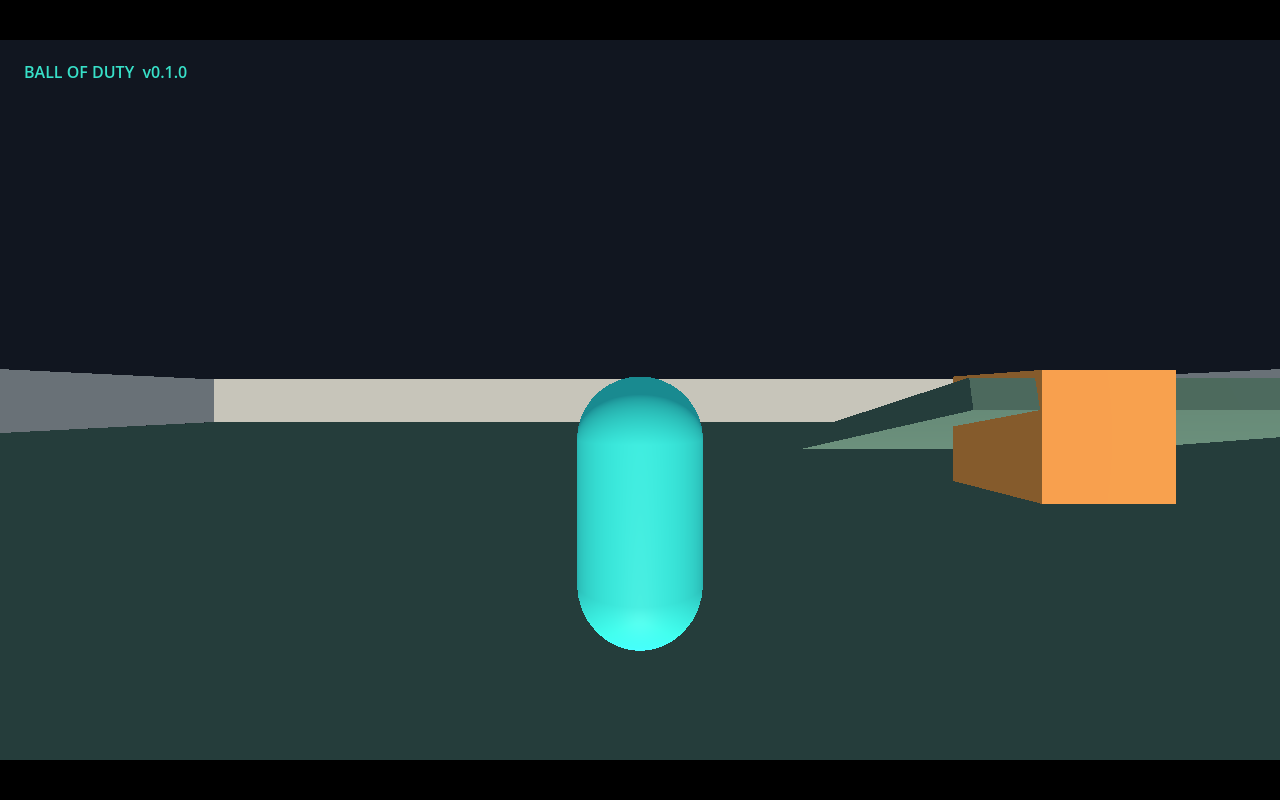
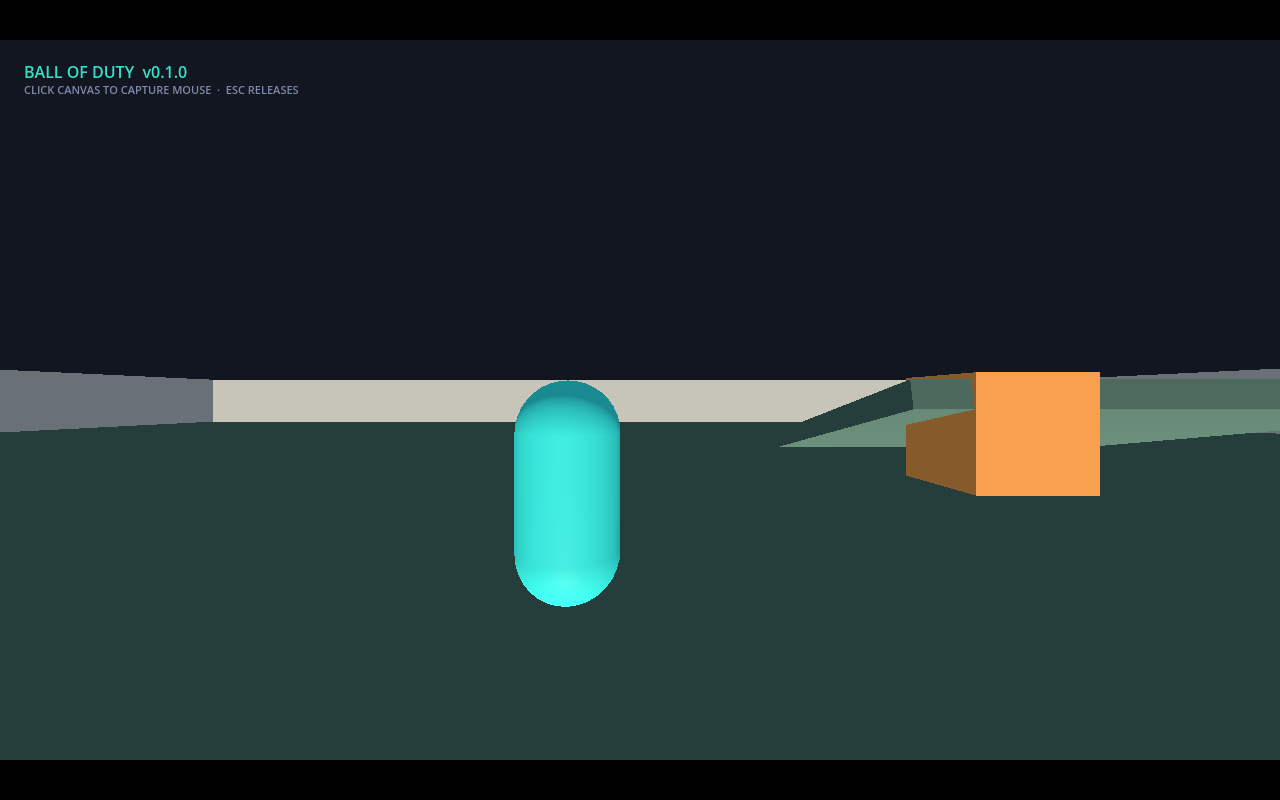
CP0: fix ramp collision, hurtbox extents, spring arm offset, pointer-lock gesture, netcode budgets

Changed region(s): [[0.375, 0.4688, 0.5625, 0.8125], [0.625, 0.4375, 1.0, 0.6562], [0.0312, 0.0938, 0.2188, 0.125]]

diff --git a/docs/ROADMAP.md b/docs/ROADMAP.md
@@ -15,9 +15,9 @@ in `docs/checkpoints/CPn.md` (numbers, screenshots, logs — not "looks good").
 | Server | Godot 4.7.2 headless, authoritative | Same scene/physics as client; no reimplementation of Godot's wire protocol |
 | Transport | `WebSocketMultiplayerPeer` (WSS in prod) | Only option for browser clients; works for desktop too |
 | Simulation | 30 Hz fixed tick, client prediction + reconciliation | Matches snapshot rate; predictable CPU and bandwidth |
-| Snapshot rate | 30 Hz, full state, ≤ 1 KB | 8 players; no delta compression needed for V1 |
+| Snapshot rate | 30 Hz, binary `PackedByteArray`, ≤ 300 B | 8 players; ~7 KB/s downstream; no delta compression for V1 |
 | Combat | Server-spawned projectiles, client cosmetic tracer | No lag-compensation/rewind needed for V1 |
-| Interpolation | 100 ms buffer (2 snapshots), drop stale | Hides 1–2 packet gaps without adding much latency |
+| Interpolation | 2 intervals (67 ms) + jitter margin, newest-wins | ~100 ms render delay; late packets hold last pose, no snap-back |
 | Match | Auto-join room, max 8, 5-min FFA, 3 s respawn | Smallest complete game loop |
 | Web export | Single-threaded, Compatibility, no SAB | Works on any static host without COOP/COEP |
 | Game scope | 1 arena, 1 rifle, no accounts/progression | Prove the loop before content |
@@ -45,14 +45,14 @@ chat/voice, mobile/touch, recoil patterns beyond cosmetic, anti-cheat beyond ser
 10. CI workflow building both artifacts and uploading them.
 
 ### Acceptance criteria
-- [ ] `godot --headless --path . --quit` completes with **0 errors, 0 warnings** in output.
+- [ ] `godot --headless --path . --quit` completes with **0 errors**; any warnings are triaged in the evidence file.
 - [ ] Project opens in the editor with Compatibility renderer; no Forward+/Mobile references.
-- [ ] `godot --headless --path . -- --server --port 9080` boots, logs `server listening`, exits 0 on SIGTERM.
+- [ ] `--headless --quit-after 120 --max-fps 60 -- --server --port 9080` boots, logs the listen banner **and a physics-tick probe** (no SIGTERM requirement; Godot does not trap it).
 - [ ] Web build loads in Chrome and Firefox from `http://localhost` with **no console errors**, pointer lock works, grey-box scene renders.
 - [ ] Web initial payload **≤ 20 MB gzipped**; load to interactive **≤ 10 s** on localhost.
 - [ ] Linux server build starts without X11/display and prints the listen banner; WebSocket handshake is verified in CP4a.
-- [ ] `tools/check.sh` passes on a clean checkout; CI is green and uploads `web.zip` + `server.zip`.
-- [ ] Version string (`git describe`) visible on the boot/loading screen.
+- [ ] `tools/check.sh` passes on a clean checkout; the CI workflow is committed (first green remote run deferred until a remote exists — tracked as a CP0 follow-up).
+- [ ] `config/version` is visible on the in-game boot overlay (build SHA recorded in the evidence file).
 - [ ] Collision layer table documented in `docs/ARCHITECTURE.md` and used consistently.
 
 ---
@@ -72,16 +72,17 @@ chat/voice, mobile/touch, recoil patterns beyond cosmetic, anti-cheat beyond ser
 6. Input capture: click to capture, `Esc` release, re-capture on click, focus-loss handling.
 7. Debug overlay: FPS, physics tick, velocity, input seq, camera distance; `F3` toggle.
 8. Small test course: flat ground, ramp, wall, gap.
+9. Minimal `Settings` autoload: sensitivity + invert-Y persisted to `user://settings.cfg` (full settings UI lands in CP5).
 
 ### Acceptance criteria
-- [ ] Travel distance over 3 s at 30/60/144 FPS differs by **< 2%** (measured, logged).
+- [ ] Travel distance over 3 s at 30/60/144 FPS differs by **< 2%** (measured, logged); rendering is smooth via physics interpolation (no 30 Hz camera judder).
 - [ ] Mouse-look has no 30 Hz stepping; a 360° turn shows no visible stair-stepping at 144 FPS.
 - [ ] Diagonal movement is **not** faster than cardinal (≤ 0.1% difference).
 - [ ] Camera does not clip through the test wall; spring arm recovers smoothly in < 200 ms.
 - [ ] Scope reach 55° FOV in < 100 ms; releasing returns to 75° in < 100 ms.
 - [ ] Player cannot fall through the floor at 30 FPS or while walking down the ramp.
 - [ ] No `Input.is_key_pressed`-style hardcoded keys remain; all actions come from the InputMap.
-- [ ] Sensitivity and invert-Y persist across restarts.
+- [ ] Sensitivity and invert-Y persist across restarts (minimal `Settings` autoload).
 - [ ] **Your sign-off:** camera distance, shoulder offset, FOV, speed, and scope feel right.
 
 ---
@@ -147,20 +148,21 @@ chat/voice, mobile/touch, recoil patterns beyond cosmetic, anti-cheat beyond ser
 1. `NetworkManager` autoload: client connect/disconnect; server listen; CLI `--server --port`.
 2. Headless server scene: no camera/HUD/local player; deterministic world load.
 3. Join/leave handshake: assign id + sanitized name, broadcast roster, clean despawn.
-4. Snapshot encode/decode: `{tick, seq, players:[{id, pos, yaw, state, hp}]}` at 30 Hz.
-5. `NetworkInterpolator` on remote players: 100 ms buffer, drop stale snapshots, extrapolation cap 100 ms.
-6. Motion-state replication (idle/run/air) and yaw; animation driven locally from state.
-7. Dev instrumentation: snapshot queue depth, bytes/s, RTT.
+4. Minimal input path: `{seq, move, jump, sprint, aim_yaw, aim_pitch, scope}` at 30 Hz; server simulates movement and acks each player's last processed seq (full reconciliation in 4b).
+5. Snapshot encode/decode: `{tick, seq, players:[{id, pos, yaw, state, hp, acked_input_seq}]}` at 30 Hz, binary and quantized.
+6. `NetworkInterpolator` on remote players: 67 ms buffer + jitter margin, newest-wins (drop stale), extrapolation ≤ 1 tick or hold last pose.
+7. Motion-state replication (idle/run/air) and yaw; animation driven locally from state.
+8. Dev instrumentation: snapshots processed/dropped, snapshot bytes, RTT, server tick offset.
 
 ### Acceptance criteria
 - [ ] 2 browser clients + 1 desktop client join simultaneously; all see each other move.
 - [ ] Remote movement is smooth at 60 and 144 FPS; **no visible teleporting** while walking/running.
-- [ ] Snapshot size ≤ 1 KB with 8 players; downstream ≤ 10 KB/s per client.
+- [ ] Snapshot size ≤ 300 B with 8 players; downstream ≤ 10 KB/s per client (quantized, binary).
 - [ ] Server process runs with no display; CPU < 25% of one core with 8 connected clients idle.
-- [ ] Client drops stale snapshots rather than queueing (queue depth never > 3; logged).
+- [ ] Client processes at most one snapshot per tick after draining and keeps the newest; processed/dropped counters are logged.
 - [ ] Join mid-match spawns a player; leaving removes the node and the scoreboard row within 1 s.
 - [ ] Malformed/oversized packets are rejected without crashing or stalling the server.
-- [ ] At simulated 100 ms RTT + 20 ms jitter, remote interpolation stays smooth (local input lag is expected at this stage).
+- [ ] At simulated 100 ms RTT + 20 ms jitter, remote interpolation stays smooth with ≤ 1 tick extrapolation; late packets never cause snap-back (local input lag is expected at this stage).
 
 ---
 
@@ -171,18 +173,19 @@ chat/voice, mobile/touch, recoil patterns beyond cosmetic, anti-cheat beyond ser
 ### Tasks
 1. Input frames `{seq, move, jump, aim_yaw, aim_pitch, scope}` sent at 30 Hz; sequence ring buffer.
 2. Server simulation of the **same** `LocomotionComponent` from inputs; acks last processed seq.
-3. Client rewind-and-replay of unacked inputs on each snapshot; smooth visual correction over 100 ms.
-4. Fixed-tick local simulation with render interpolation; no variable-dt movement.
-5. Server validation: speed clamp, teleport clamp, input rate limit, sequence dedupe.
-6. Correction meters: position error, correction count/s, replay depth; RTT graph.
+3. Session token + 30 s reconnect grace (defined here, consumed in 4d).
+4. Client rewind-and-replay of unacked inputs on each snapshot; smooth visual correction over 100 ms.
+5. Fixed-tick local simulation with render interpolation; no variable-dt movement.
+6. Server validation: input rate limit, sequence dedupe, and a server-side displacement assertion (`|Δpos| ≤ max_speed·dt + ε`) — no position packets exist to trust or reject.
+7. Correction meters: position error, correction count/s, replay depth; RTT graph.
 
 ### Acceptance criteria
-- [ ] At 0 ms RTT, predicted position matches server within **0.01 m** steady-state.
-- [ ] At 100 ms RTT + 20 ms jitter, steady-state correction magnitude **< 0.05 m**; corrections are invisible (no rubber-banding).
+- [ ] Metric defined: server position at the acked tick vs the client's stored state for that same tick. At loopback, p95 error **< 0.02 m** steady-state.
+- [ ] At 100 ms RTT + 20 ms jitter, p95 error **< 0.05 m** and corrections are invisible (no rubber-banding). A small residual is acceptable; browser-wasm vs native contact ordering is not bit-identical.
 - [ ] Wall sliding and stair/ramp behavior identical on client and server (side-by-side replay test).
 - [ ] Input replay depth stays ≤ 8 frames at 150 ms RTT.
-- [ ] 2× speed hack / teleport packets rejected within 1 s and logged; legit movement never falsely rejected.
-- [ ] Disconnect during movement leaves no ghost; reconnect starts clean.
+- [ ] Server rejects impossible displacement (2× speed) within 1 s and logs it; legitimate movement is never falsely rejected.
+- [ ] Disconnect during movement leaves no ghost; reconnect within the 30 s grace restores identity and score.
 - [ ] **Your sign-off:** movement feels responsive at 100–150 ms simulated latency.
 
 ---
@@ -192,7 +195,7 @@ chat/voice, mobile/touch, recoil patterns beyond cosmetic, anti-cheat beyond ser
 **Owner:** me (build), **you** (gameplay test). **Gate:** CP4b acceptance.
 
 ### Tasks
-1. Fire intent `{seq, aim_origin, aim_dir}` → server validates fire rate/ammo/ownership → spawns authoritative projectile.
+1. Fire intent `{seq, client_tick, aim_yaw, aim_pitch, buttons}` → server derives origin/direction from its own player state, validates fire rate/ammo/ownership, spawns authoritative projectile.
 2. Client cosmetic tracer prediction; hitmarker/kill confirmed by server events.
 3. Server hurtbox resolution + damage + death + kill attribution (`source_id` on projectile).
 4. Server-authoritative respawn selection (farthest spawn with LOS check), 1.5 s spawn protection.
@@ -204,7 +207,7 @@ chat/voice, mobile/touch, recoil patterns beyond cosmetic, anti-cheat beyond ser
 - [ ] Fire rate > weapon spec is rejected; ammo cannot go negative; firing without ammo is rejected.
 - [ ] Headshots confirmed server-side at 2×; kill attributed to the correct shooter.
 - [ ] 8-player match with 4 bots runs 10 min: no desync, no ghost players, server CPU < 50% of one core.
-- [ ] At 100 ms RTT, shots visibly match server-confirmed hits; tracers are cosmetic only.
+- [ ] At 100 ms RTT, the tracer is cosmetic and the server-confirmed hit point is authoritative; hitmarkers/kills appear only on server events. No rewind/lag compensation in V1.
 - [ ] Spawn protection blocks damage for 1.5 s and cancels on firing; spawn is ≥ 10 m from nearest enemy.
 - [ ] **Your sign-off:** firefights feel fair; deaths and hitmarkers are understandable.
 
@@ -227,7 +230,7 @@ chat/voice, mobile/touch, recoil patterns beyond cosmetic, anti-cheat beyond ser
 - [ ] 8 clients × 10 min soak: RSS stable (±10%), 0 unhandled errors, 0 disconnects.
 - [ ] 9th client receives a clean "server full" message.
 - [ ] Oversized/rapid packets are dropped; server stays responsive (< 5 ms tick time).
-- [ ] `SIGTERM` shuts down gracefully with all peers notified.
+- [ ] A supervisor/shutdown command stops the server and notifies peers within 10 s; SIGTERM behavior is documented (Godot exits 143 without a handler).
 
 ---
 
@@ -251,7 +254,7 @@ chat/voice, mobile/touch, recoil patterns beyond cosmetic, anti-cheat beyond ser
 - [ ] Chrome, Firefox, **Safari** (latest) all load over HTTPS/WSS with no console errors.
 - [ ] Web payload ≤ 25 MB (gzipped), interactive ≤ 10 s on broadband, 60 FPS at 720p on reference low-end.
 - [ ] Settings persist; audio starts after first click; pointer lock recovers after tab switch.
-- [ ] 8 humans/bots play 15 min: 0 critical bugs, 0 disconnects, max tick time < 10 ms.
+- [ ] 8 humans/bots play 15 min: 0 critical bugs (crash, desync, unplayable frame rate, stuck spawn), 0 unplanned disconnects, max tick time < 10 ms.
 - [ ] One-command deploy reproduces the release; `docs/RELEASE.md` runbook works from scratch.
 - [ ] **Your sign-off:** web build is fun and stable enough to share publicly.
 
@@ -272,7 +275,7 @@ chat/voice, mobile/touch, recoil patterns beyond cosmetic, anti-cheat beyond ser
 
 ---
 
-## Performance budgets (reference: 1280×720, Intel UHD-class)
+## Performance budgets (reference device: 4-core/8 GB laptop, Intel UHD 620-class iGPU, 1280×720)
 
 | Metric | Budget | Hard fail |
 |---|---|---|
@@ -282,6 +285,7 @@ chat/voice, mobile/touch, recoil patterns beyond cosmetic, anti-cheat beyond ser
 | Texture memory | ≤ 100 MB | > 150 MB |
 | Web payload (gzip) | ≤ 20 MB | > 30 MB |
 | Server tick (8 players) | ≤ 5 ms | > 10 ms |
+| Snapshot size (8 players) | ≤ 300 B | > 500 B |
 | Snapshot downstream | ≤ 10 KB/s | > 20 KB/s |
 | Client memory | ≤ 300 MB | > 500 MB |
 

diff --git a/docs/ARCHITECTURE.md b/docs/ARCHITECTURE.md
@@ -13,18 +13,25 @@
 | Match state / timer | Server | Display only |
 | Cosmetics / audio | Client | Purely local |
 
-Hard rule: **no client script may write health, kills, or score.** Before CP4 these live behind the same
-`CombatResolver` / `GameState` API that the server will call, so enabling authority is a wiring change,
-not a rewrite.
+Hard rule: **no client script may write health, kills, or score.** CP3 keeps all damage behind
+`CombatResolver`; CP4c moves the resolver's caller, projectile spawn, and hit resolution server-side.
+That is a scoped refactor, not a one-file flip — plan for it.
 
 ## Tick & network model
 
 - Physics/simulation tick: **30 Hz** (`physics/common/physics_ticks_per_second=30`).
-- Input frames are produced once per tick: `{seq, move_x, move_z, jump, sprint, scope, aim_yaw, aim_pitch}`.
-- Snapshots are sent once per tick at 30 Hz and carry `{tick, seq, acked_input_seq, players[], events[]}`.
-- Remote players render with a **100 ms interpolation buffer**; stale snapshots are dropped, never queued.
+- Input frames are produced once per tick: `{seq, move_x, move_z, jump, sprint, scope, aim_yaw, aim_pitch, buttons}`.
+- Snapshots are sent once per tick at 30 Hz as a binary `PackedByteArray`:
+  `{tick, seq, players:[{id, pos_q, yaw_q, state, hp, acked_input_seq}], events[]}`.
+- Budget: **≤ 300 B** snapshot at 8 players → **≤ 10 KB/s** downstream per client (quantized, no dictionaries).
+- Remote players render with a **2-interval (67 ms) buffer + jitter margin**, newest-wins; extrapolation is
+  capped at **1 tick**, otherwise hold the last pose. Late packets never snap the pose backwards.
 - Local player: fixed-tick prediction, replay of unacked inputs, visual correction smoothed over 100 ms.
-- Maximum packet target: **1 KB** snapshot at 8 players; downstream ≤ 10 KB/s/client.
+- **Clock**: the client estimates server-tick offset from the first snapshot and minimum observed RTT,
+  falling back to arrival time; it renders remote players at `estimated_server_tick - 2 - jitter_ticks`.
+- **Transport reality**: WebSocket is TCP. Dropping stale snapshots prevents an unbounded backlog, but it
+  cannot hide head-of-line retransmit stalls; a lost packet is a visible hitch of at least the RTO. Keep
+  snapshots small and budget for it. Revisit WebTransport only if this is unacceptable.
 
 ## Collision layers
 
@@ -41,7 +48,8 @@ Defined in `project.godot` under `layer_names/3d_physics`:
 | 7 | 64 | `trigger` | Pickups, kill planes, spawn zones |
 
 Rules:
-- Player `collision_mask` = world + player (+ enemy from CP4c).
+- Player `collision_mask` = **world only**. Players and bots do not block each other in V1, so client
+  prediction never collides with 100 ms-old remote positions. Projectiles still hit hurtboxes.
 - SpringArm `collision_mask` = world only.
 - Hurtboxes `collision_layer` = hurtbox, `monitoring` = false; hit detection is a query, not an overlap callback.
 - Projectile hit queries mask world + hurtbox. Never query player bodies for damage.
@@ -54,7 +62,7 @@ Only cross-system events go on the bus. Component-internal communication stays p
 # scripts/autoload/event_bus.gd
 signal health_changed(entity_id: int, current: int, maximum: int)
 signal damage_dealt(target_id: int, source_id: int, amount: int, hitbox: StringName, position: Vector3)
-signal died(entity_id: int, source_id: int, position: Vector3)
+signal player_died(entity_id: int, source_id: int, position: Vector3)
 signal kill_credited(killer_id: int, victim_id: int, weapon_id: StringName)
 signal shot_fired(shooter_id: int, origin: Vector3, direction: Vector3, weapon_id: StringName)
 signal match_state_changed(state: StringName, seconds_left: float)
@@ -62,8 +70,8 @@ signal score_changed(player_id: int, kills: int, deaths: int)
 ```
 
 Conventions:
-- IDs are server-assigned peer ids; `0` = local/solo.
-- Events carrying truth (`damage_dealt`, `died`, `kill_credited`) are emitted **only by authority**.
+- IDs are server-assigned peer ids starting at **1**; `0` = local/solo/unassigned in offline dev.
+- Events carrying truth (`damage_dealt`, `player_died`, `kill_credited`) are emitted **only by authority**.
 - Cosmetic-only signals are prefixed `fx_` and may be emitted locally.
 - Payloads must be serializable primitives; no node references.
 
@@ -72,7 +80,7 @@ Conventions:
 ```text
 Player.tscn (CharacterBody3D)
 ├── CollisionShape3D
-├── Mesh (presentation only)
+├── Visual (Node3D) → Mesh/Face (presentation only)
 ├── BodyHurtbox / HeadHurtbox   (Area3D, layer hurtbox)
 ├── HealthComponent             (CP3)
 ├── LocomotionComponent         (CP4b, shared with server)
@@ -92,12 +100,25 @@ Player.tscn (CharacterBody3D)
 - Scenes in `scenes/`; scripts in `scripts/` mirroring the scene domain.
 - Tuning data in `.tres` text resources under `resources/`; no gameplay magic numbers in scripts.
 - Third-party assets in `assets/` with an entry in `assets/CREDITS.md` **before** commit.
-- Autoloads limited to `EventBus`, `GameManager`, `Settings`, `AudioManager`.
+- Autoloads limited to `EventBus`, `GameManager`, `Settings`, `AudioManager`; introduce them as the phase
+  needs them (`Settings` in CP1, `EventBus` in CP3, `GameManager` in CP4a, `AudioManager` in CP3/CP5).
 
 ## Web constraints
 
 - Compatibility renderer only; no SSAO/SSIL/volumetric fog/TAA.
 - Single-threaded export; no `SharedArrayBuffer`/COOP/COEP requirement.
 - WSS terminated at Caddy/Nginx in front of the headless server; static build served from the same origin.
-- Audio unlocked on first pointer gesture; pointer lock re-acquired after focus loss.
+- Audio unlocked on first pointer gesture; pointer lock is only requested from a click/key gesture
+  (never at boot) and re-acquired on the next click after focus loss.
 - Export must load with all resources packed; no runtime file access.
+
+## Projectile hit rules (CP3+)
+
+- Sweep from the previous tick's position to the new position each physics tick (ray/`ShapeCast3D`),
+  never "move then overlap" — fast projectiles tunnel otherwise.
+- Resolve **head hurtbox first**, then body, when both overlap on the same tick.
+- Exclude the shooter's own hurtbox RIDs explicitly; a 3.6 m third-person camera starts the aim ray
+  outside the shooter, so `hit_from_inside` is not sufficient.
+- Spawn at the muzzle, but aim at the point under the crosshair (camera-center ray hit), so the
+  third-person offset does not make shots miss the crosshair.
+- Damage is recorded as a hit request, not applied by the projectile. `CombatResolver` is the only writer.

diff --git a/README.md b/README.md
@@ -3,7 +3,7 @@
 A lightweight, cute, web-first 3D third-person arena shooter. Eight players, one rifle, five minutes,
 bragging rights.
 
-**Status:** CP0 — foundation & pipeline (see [`docs/ROADMAP.md`](docs/ROADMAP.md))
+**Status:** CP0 foundation verified (web export + browser boot); CI first run pending a remote. See [`docs/ROADMAP.md`](docs/ROADMAP.md).
 **Engine:** Godot 4.7.2 (GDScript) · **Renderer:** Compatibility (WebGL 2) · **Netcode:** WebSocket,
 Godot headless authoritative server, 30 Hz fixed tick.
 
@@ -19,6 +19,9 @@ tools/godot --headless --path . -- --server --port 9080
 
 # full pipeline check (import, boot, exports, tests)
 tools/check.sh
+
+# serve the exported web build (http://127.0.0.1:8099)
+tools/serve.sh
 ```
 
 Requirements: Godot **4.7.2** with matching export templates. If the engine lives elsewhere, set
@@ -40,7 +43,8 @@ GODOT_BIN=/path/to/godot tools/godot --version
 | `Shift` | Sprint (from CP1) |
 | `R` | Reload (from CP3) |
 | `Tab` | Scoreboard (from CP5) |
-| `Esc` | Release mouse / pause |
+| `Esc` | Release mouse |
+| Click canvas | Capture mouse |
 | `F3` | Debug overlay |
 
 ## Layout

diff --git a/docs/PLAN.md b/docs/PLAN.md
@@ -90,13 +90,13 @@ final verification. No subagent gets credentials or deploys.
 | Art blocks progress | Grey-box first; art is swappable dressing |
 | Godot headless/templates mismatch | Pin 4.7.2; `tools/check.sh` validates both |
 | Bandwidth/CPU at 8 players | Snapshot size + tick-time budgets enforced from 4a |
-| TCP head-of-line stalls | Stale-snapshot dropping + ≤ 1 KB packets |
+| TCP head-of-line stalls | ≤300 B snapshots + newest-wins draining; documented that retransmits still cause a hitch (no WebSocket fix) |
 | Prediction divergence | Shared locomotion code; fixed tick; replay tests |
 | Scope creep | Out-of-scope list in ROADMAP; change requires your call |
 
 ## Definition of done (every work session)
 
-- [ ] Code imports cleanly (0 errors/warnings) and `tools/check.sh` passes.
+- [ ] Code imports cleanly (0 errors; warnings triaged) and `tools/check.sh` passes.
 - [ ] Acceptance criteria for the active checkpoint are met or explicitly marked deferred.
 - [ ] Evidence written to `docs/checkpoints/CPn.md`.
 - [ ] Decisions/risks updated in this file or `ARCHITECTURE.md`.

diff --git a/docs/SETUP.md b/docs/SETUP.md
@@ -28,6 +28,7 @@ Verify:
 tools/godot --version                     # 4.7.2.stable.official...
 tools/check.sh                            # full pipeline
 tools/check.sh --skip-export              # imports + headless boots + tests
+tools/serve.sh                            # serve build/web on :8099
 ```
 
 ## Web export notes (Godot 4.7, Compatibility)
